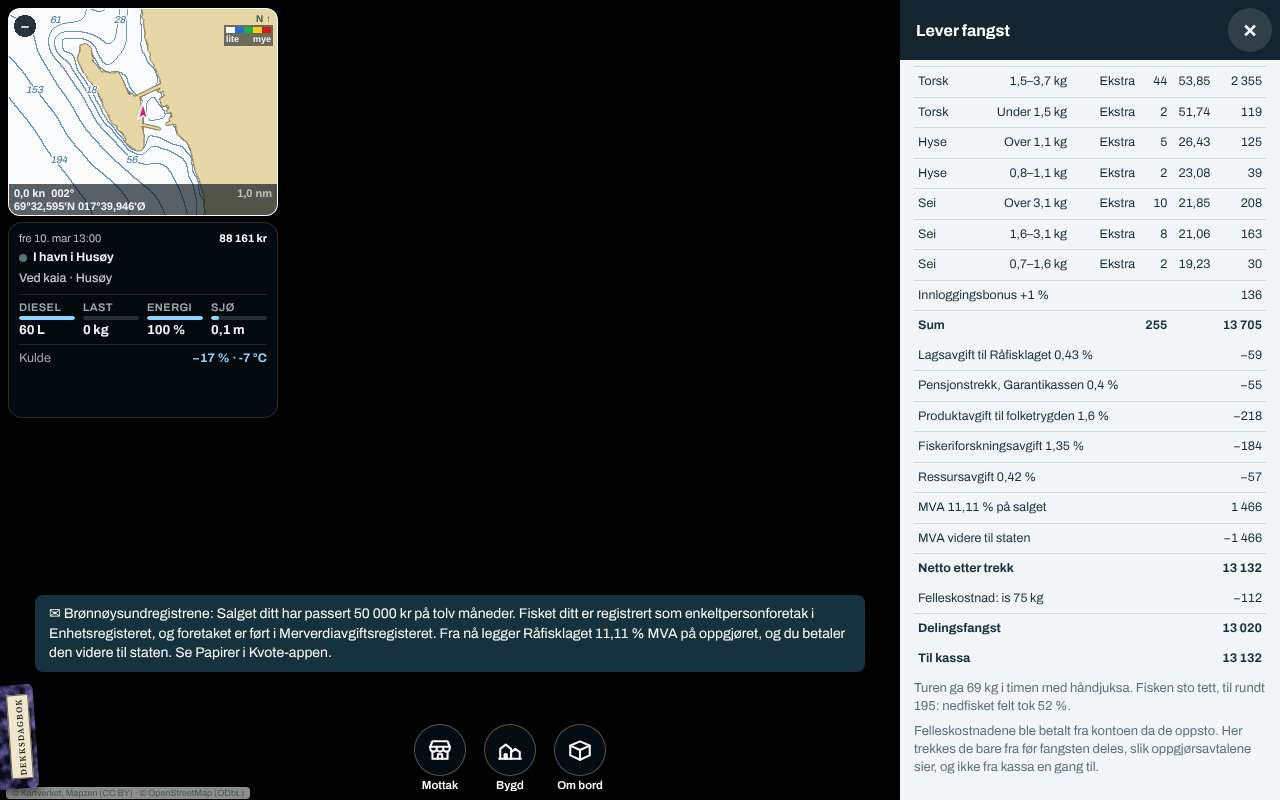
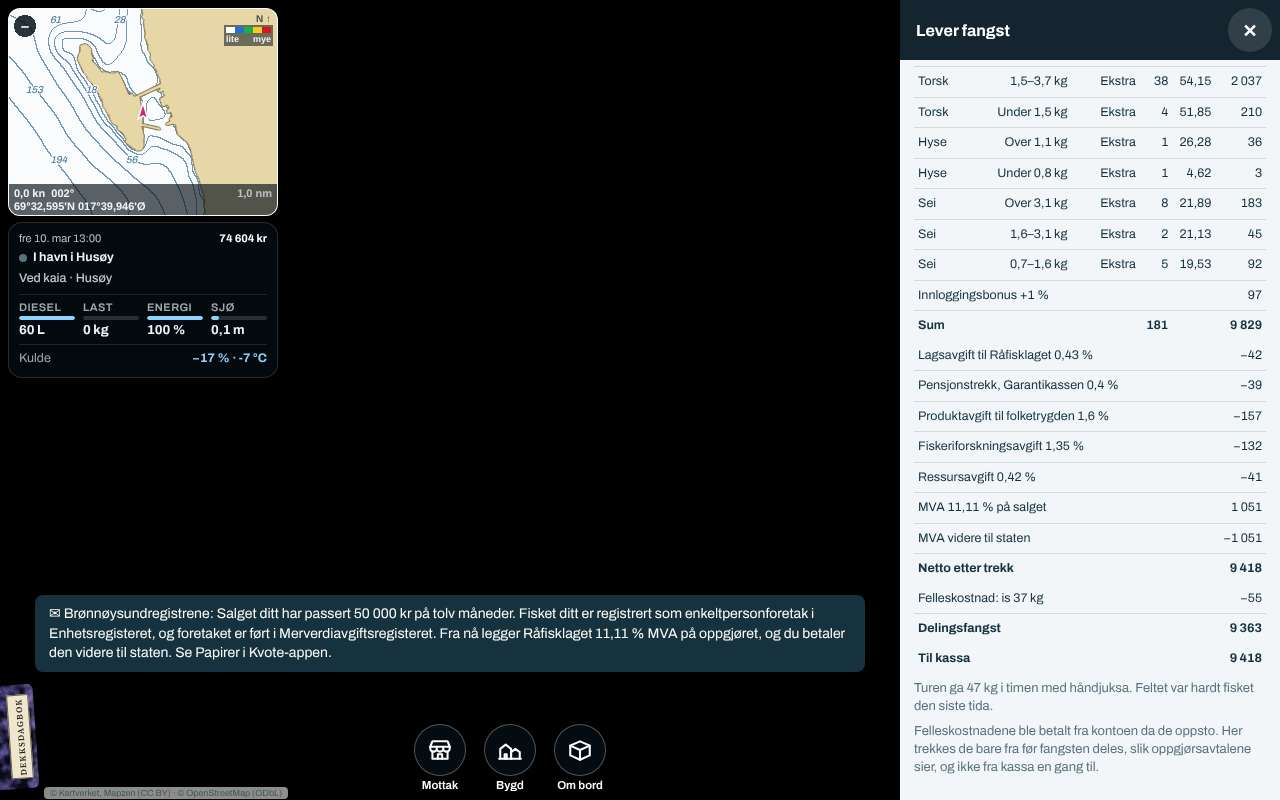
Ø8b S2: turens linje med vanlige ord, kiloene som eneste tall (Jonas 09.11.2026)
Jonas: «Hva menes med at sjøen og vinden tok 68%? Prosent av hva?» og «jeg tenker aldri at man skal nevne hvor mye man potensielt
sett kan få på plassen … men ikke med konkrete tall … fiskere er som regel simple folk, ikke akademikere.» tripWhy sier nå hva turen
ga i timen, og så høyst to av det som tok mest, med vanlige ord og sterkere ord for et større utslag («Det sto godt med fisk, men
vinden og sjøen gjorde det for tungt å fiske skikkelig, og det var kaldt på fingrene.»). «Fisken sto til rundt N» og prosentene er
ute; trekkene er bedre, omtrent som eller dårligere enn vanlig; haillen «hjalp godt». «Godt med fisk» regnes av det som sto igjen
etter nedfiskingen og står aldri sammen med «hardt fisket». Tallene går fortsatt til skyen i slip_why.

Tester: tests/unit/turlinje.test.mjs skrevet om for ordene (sett rød mot ordlyden før: 19 OK, 19 FEIL; grønn etter, 39 OK), med en
sjekk for at ingen tall utover kiloene står i linja; unit 2 483 OK; turlinjetest (også --kyst: Bøvågen, Bodø, Forsøl) og geartest
grønne; booktest og boottest grønne. Skjermbildene tatt på nytt. Patchnotatet skrevet om.

Claude-Session: https://claude.ai/code/session_013BxXiBXgi4RvavDSZh2cjE

diff --git a/src/js/core/04-crew.js b/src/js/core/04-crew.js
@@ -148,8 +148,10 @@ function tripCost(b = S.boat){ const T = tripOf(b), fuelKr = Math.round(T.fuelL 
 // ---- the trip's line on the landing note and in the deck log (Ø8b S2, V2 A and V4 A in docs/planer/spillbarhet-fangst.md, Jonas
 // 06.11.2026): how the trip went and why, from the sums fish() and finishHaul keep in the trip (T.j for the jig, T.g for the hauls).
 // Only what the model reckons is said, and of the steps only those that took or gave at least TRIPL.min of the fish.
-// tight and thin: what the fish stood to against a fair hour for the rig (HEATG.fair.jig), past which the line says the fish stood dense or thin
-const TRIPL = {min:0.1, minM:15, tight:3, thin:0.4};
+// min: the least share of the fish a step must take to be named, strong (strongCold for the cold, which takes at most half) for the
+// stronger words; tight and thin: what the fish stood to against a fair hour for the rig (HEATG.fair.jig), past which the line says
+// there was plenty of fish or little; good and poor: the hauls against usual ones. Starting values
+const TRIPL = {min:0.1, minM:15, strong:0.4, strongCold:0.2, tight:3, thin:0.4, good:1.4, poor:0.6};
 // the sums made into shares: the jig's kilos an hour, what the fish stood to an hour (p0, before the fishing down, the weather, the cold
 // and the wear), a fair hour for the rig (HEATG.fair.jig per hand jig's effort), and each step's share of p0 (they add up to
 // 1 − pJ/p0, the whole loss); the luck as what it gave on top of what was left. The hauls: kilos against fair hauls for the soak
@@ -164,33 +166,55 @@ function tripSum(T){
   if (G && G.n > 0 && G.fair > 0) W.g = {n:G.n, kg:G.kg, fair:G.fair, stock:G.r0 > 0 ? Math.max(0, 1 - G.rL / G.r0) : 0, luck:G.rL > 0 ? G.r / G.rL - 1 : 0, kinds:Object.keys(G.k || {})};
   return W.j || W.g ? W : null;
 }
-// the line itself, [Norwegian, English]: «Turen ga 38 kg i timen med håndjuksa. Fisken sto til rundt 50: sjøen (1,4 m) tok 20 %, kulda 12 %.»
+// the line itself, [Norwegian, English], as a fisherman on the quay would put it (Jonas 09.11.2026: «aldri nevne hvor mye man potensielt
+// sett kan få på plassen», «hvordan vær eller andre forhold påvirket fisket, men ikke med konkrete tall», «fiskere er som regel simple
+// folk»): the kilos an hour are the only number; then at most two of the things that took the most, in plain words, stronger words for
+// a bigger share, and whether the fish stood dense or thin. «Turen ga 36 kg i timen med håndjuksa. Det sto godt med fisk, men sjøen var
+// for grov til å fiske skikkelig, og kulda gjorde fingrene stive.»
 function tripWhy(W){
   if (!W) return null;
-  const nf = (v, d, no) => { const x = (Math.round(v * 10 ** d) / 10 ** d).toFixed(d); return no ? x.replace('.', ',') : x; };
-  const kgS = (v, no) => v >= 1 ? nf(v, 0, no) : 'under 1';
-  const about = (v, no) => v >= 1 ? (no ? 'rundt ' : 'about ') + nf(v >= 20 ? Math.round(v / 5) * 5 : v, 0, no) : (no ? 'under 1' : 'less than 1');   // «rundt 50»: the model's number, not a weighing
-  const pc = v => Math.round(v * 100);
-  // the luck is said with the part it was in: the jig's after the jig's line, the hauls' in theirs (the haill can have been on for one only)
-  const luckS = v => { const x = Math.abs(v - 1) <= 0.05 ? 2 : Math.abs(v - 2) <= 0.05 ? 3 : 0; return x ? [x === 2 ? 'det dobbelte' : 'det tredobbelte', x === 2 ? 'double' : 'triple'] : [pc(v) + ' % mer', pc(v) + ' % more']; };
+  const kgS = (v, no) => v >= 1 ? String(Math.round(v)) : (no ? 'under 1' : 'less than 1');
+  const cap = s => s.charAt(0).toUpperCase() + s.slice(1);
   const no = [], en = [];
+  // [share, Norwegian, English]: the words for each step, mild (from TRIPL.min) or strong (from TRIPL.strong)
+  const SAY = {
+    sea:(v, j) => { const wind = j.w > 8.5, hard = v >= TRIPL.strong;
+      return hard ? (wind ? ['vinden og sjøen gjorde det for tungt å fiske skikkelig', 'the wind and the sea made it too hard to fish properly'] : ['sjøen var for grov til å fiske skikkelig', 'the sea was too rough to fish properly'])
+        : (wind ? ['det blåste en del', 'it blew a fair bit'] : ['det var litt mye sjø', 'there was a bit too much sea']); },
+    cold:v => v >= TRIPL.strongCold ? ['kulda gjorde fingrene stive', 'the cold made the fingers stiff'] : ['det var kaldt på fingrene', 'it was cold on the fingers'],
+    stock:v => v >= TRIPL.strong ? ['feltet var hardt fisket den siste tida', 'the ground had been fished hard lately'] : ['feltet var litt nedfisket', 'the ground was a little fished down'],
+    pilk:() => ['pilken og krokene var slitt', 'the pilk and hooks were worn']};
+  let luck = false;
   if (W.j){ const j = W.j, rigNo = j.kv ? 'kveiteutstyr' : j.mk > 0 ? (j.mk > 1 ? 'juksamaskiner' : 'juksamaskin') : 'håndjuksa', rigEn = j.kv ? 'halibut gear' : j.mk > 0 ? (j.mk > 1 ? 'jigging machines' : 'a jigging machine') : 'a hand jig';
     no.push('Turen ga ' + kgS(j.kgph, true) + ' kg i timen med ' + rigNo + '.'); en.push('The trip gave ' + kgS(j.kgph, false) + ' kg an hour with ' + rigEn + '.');
-    const wind = j.w > 8.5, F = [['sea', (wind ? 'sjøen og vinden (' : 'sjøen (') + nf(j.hs, 1, true) + ' m' + (wind ? ', ' + nf(j.w, 0, true) + ' m/s' : '') + ')', (wind ? 'the sea and the wind (' : 'the sea (') + nf(j.hs, 1, false) + ' m' + (wind ? ', ' + nf(j.w, 0, false) + ' m/s' : '') + ')'],
-      ['cold', 'kulda', 'the cold'], ['stock', 'nedfisket felt', 'fished-down grounds'], ['pilk', 'slitt pilk og kroker', 'worn pilk and hooks']]
-      .map(([k, a, b]) => [j.sh[k], a, b]).filter(x => x[0] >= TRIPL.min).sort((a, b) => b[0] - a[0]);
-    const tight = j.fair > 0 && j.pot >= TRIPL.tight * j.fair, thin = j.fair > 0 && j.pot <= TRIPL.thin * j.fair;
-    const s0no = 'Fisken sto ' + (tight ? 'tett, til ' : thin ? 'tynt, til ' : 'til ') + about(j.pot, true), s0en = 'The fish stood ' + (tight ? 'dense, for ' : thin ? 'thin, for ' : 'for ') + about(j.pot, false);
-    if (F.length){ no.push(s0no + ': ' + F.map((x, i) => x[1] + (i ? ' ' : ' tok ') + pc(x[0]) + ' %').join(', ') + '.'); en.push(s0en + ': ' + F.map((x, i) => x[2] + (i ? ' ' : ' took ') + pc(x[0]) + ' %').join(', ') + '.'); }
-    else { no.push(s0no + '.'); en.push(s0en + '.'); }
-    if (j.luck >= TRIPL.min){ const L = luckS(j.luck); no.push('Haillen ga ' + L[0] + '.'); en.push('The luck gave ' + L[1] + '.'); }
+    // plenty or little: what stood there after the fishing down; a line that says the ground was fished never says «plenty of fish» too
+    const left = j.pot * (1 - (j.sh.stock || 0)), thin = j.fair > 0 && left <= TRIPL.thin * j.fair;
+    const K = ['sea', 'cold', 'stock', 'pilk'].map(k => [j.sh[k], k]).filter(x => x[0] >= TRIPL.min).sort((a, b) => b[0] - a[0]).slice(0, thin ? 1 : 2);
+    const tight = j.fair > 0 && left >= TRIPL.tight * j.fair && !K.some(x => x[1] === 'stock'), F = K.map(([v, k]) => SAY[k](v, j));
+    const and = (L, i) => L.map(x => x[i]).join(i ? ', and ' : ', og ');
+    if (tight && F.length){ no.push('Det sto godt med fisk, men ' + and(F, 0) + '.'); en.push('There was plenty of fish, but ' + and(F, 1) + '.'); }
+    else if (thin && F.length){ no.push('Det var lite fisk å finne, og ' + F[0][0] + '.'); en.push('There was little fish to find, and ' + F[0][1] + '.'); }
+    else if (tight){ no.push('Det sto godt med fisk.'); en.push('There was plenty of fish.'); }
+    else if (thin){ no.push('Det var lite fisk å finne.'); en.push('There was little fish to find.'); }
+    else if (F.length){ no.push(cap(and(F, 0)) + '.'); en.push(cap(and(F, 1)) + '.'); }
+    else if (j.sh.sea < 0.05 && j.sh.cold < 0.05){ no.push('Fint vær og jevnt fiske.'); en.push('Fine weather and steady fishing.'); }
+    else { no.push('Jevnt fiske.'); en.push('Steady fishing.'); }
+    if (j.luck >= TRIPL.min) luck = true;
   }
-  if (W.g){ const g = W.g, one = g.n === 1, L = g.luck >= TRIPL.min ? luckS(g.luck) : null;
-    no.push((one ? 'Trekket' : 'De ' + g.n + ' trekkene') + ' ga ' + nf(g.kg, 0, true) + ' kg, mot ' + about(g.fair, true) + ' i ' + (one ? 'et vanlig trekk' : 'vanlige trekk') + ' med samme ståtid' + (g.stock >= TRIPL.min ? '; nedfisket felt tok ' + pc(g.stock) + ' %' : '') + (L ? '; haillen ga ' + L[0] : '') + '.');
-    en.push((one ? 'The haul' : 'The ' + g.n + ' hauls') + ' gave ' + nf(g.kg, 0, false) + ' kg, against ' + about(g.fair, false) + ' in ' + (one ? 'an ordinary haul' : 'ordinary hauls') + ' with the same soak' + (g.stock >= TRIPL.min ? '; fished-down grounds took ' + pc(g.stock) + ' %' : '') + (L ? '; the luck gave ' + L[1] : '') + '.');
+  // the hauls against usual ones for the soak (HEATG.fair, as the catch mark's colour): better, about the same or poor, and why when the
+  // ground was fished hard
+  if (W.g){ const g = W.g, q = g.kg / g.fair, k = g.kinds.length === 1 ? g.kinds[0] : null;
+    const who = {garn:['Garna', 'The nets'], line:['Lina', 'The line'], teine:['Teinene', 'The pots']}[k] || ['Redskapet', 'The gear'];
+    if (q >= TRIPL.good){ no.push(who[0] + ' fisket bedre enn vanlig.'); en.push(who[1] + ' fished better than usual.'); }
+    else if (q <= TRIPL.poor){ const hard = g.stock >= TRIPL.strong;
+      no.push(who[0] + ' ga lite denne gangen' + (hard ? ': feltet var hardt fisket.' : '.')); en.push(who[1] + ' gave little this time' + (hard ? ': the ground had been fished hard.' : '.')); }
+    else { no.push(who[0] + ' fisket omtrent som vanlig.'); en.push(who[1] + ' fished about as usual.'); }
+    if (g.luck >= TRIPL.min) luck = true;
   }
+  if (luck){ no.push('Haillen hjalp godt.'); en.push('The luck helped a good deal.'); }
   return [no.join(' '), en.join(' ')];
 }
+
 // ---- the trip's limits on an ocean vessel (H2b of docs/planer/havsteget-h2-autoline.md, 05.11.2026). The fuel, the bait, the hooks for
 // the hook change (10b-gearcare.js autoFixHour) and the room in the hold each last so many days at the trip's pace so far (until half a
 // day at sea has gone, and for the hold until a tonne is in, the vessel's own: her generators and a day of gear work, 5.5 t of product a

diff --git a/src/js/ui/phone/07-patch.js b/src/js/ui/phone/07-patch.js
@@ -1,7 +1,7 @@
   // --- the patch notes: what the latest updates brought, newest first; a new id at the top shows a badge until the app is opened
   const PATCH = [
-    ['o8b-s2-081126', '08.11.2026', 'Turens linje på sluttseddelen', 'The trip\'s line on the landing note', [
-       ['Sluttseddelen sier hvordan turen gikk og hvorfor: hvor mange kilo i timen den ga, hva fisken sto til der du fisket, og hva sjøen og vinden, kulda, slitt pilk og et nedfisket felt tok av det. Trekkene med garn, line og teiner måles mot vanlige trekk med samme ståtid. Den samme linja står i dekksdagboka.', 'The landing note says how the trip went and why: how many kilos an hour it gave, what the fish stood for where you fished, and what the sea and the wind, the cold, worn pilk and fished-down grounds took of it. Hauls of nets, line and pots are measured against ordinary hauls with the same soak. The same line stands in the deck log.']]],
+    ['o8b-s2-081126', '09.11.2026', 'Turens linje på sluttseddelen', 'The trip\'s line on the landing note', [
+       ['Sluttseddelen sier hvor mange kilo i timen turen ga, og med noen få ord hva som gjorde den god eller dårlig: sjøen og vinden, kulda, et hardt fisket felt eller slitt pilk. Etter garn, line og teiner står det om de fisket bedre eller dårligere enn vanlig. Den samme linja står i dekksdagboka.', 'The landing note says how many kilos an hour the trip gave, and in a few words what made it good or poor: the sea and the wind, the cold, a ground fished hard or worn pilk. After nets, line and pots it says whether they fished better or worse than usual. The same line stands in the deck log.']]],
     ['p157', '08.11.2026', 'Fisken på fiskeplassene', 'The fish on the fishing grounds', [
        ['Fisken står oftere på fiskeplassene langs hele kysten i de månedene fiskerne har fisket der (Fiskeridirektoratets kart), men ikke hver dag: de gode flekkene kommer og går på feltet som ellers i sjøen.', 'The fish stand more often on the fishing grounds along the whole coast in the months the fishermen have fished there (the Directorate of Fisheries\' map), but not every day: the good spots come and go on the ground as elsewhere in the sea.'],
        ['Senjas seks felt har ikke lenger en egen sirkel med ekstra fisk. Fiskeplassene på Senja følger samme regel som resten av kysten.', 'Senja\'s six grounds no longer have a circle of extra fish of their own. The fishing grounds on Senja follow the same rule as the rest of the coast.']]],

diff --git a/tests/turlinjetest.py b/tests/turlinjetest.py
@@ -6,7 +6,7 @@ the luck on, and where the stock is fished down, and lands each trip. `--kyst` (
 tools/map/game.py) does a calm trip near Bergen, Bodø and Hammerfest, the stikkprøve along the coast. `--shots` takes the landing note in
 both formats into tests/out/ (_env.py works there). Prints OK/FEIL lines."""
 from _env import GAME, boot
-import asyncio, json, sys, os
+import asyncio, json, sys, os, re
 from playwright.async_api import async_playwright
 
 def check(ok, what, extra=''):
@@ -40,7 +40,7 @@ async def main():
         calm = json.loads(await run(None, 4, 4, 0.4, False, 1))
         print('stille', calm['pt'], calm['kg'], 'kg:', calm['why'][0] if calm['why'] else None)
         j = (calm['W'] or {}).get('j') or {}
-        check(bool(calm['why']) and calm['why'][0].startswith('Turen ga ') and 'Fisken sto' in calm['why'][0], 'en vanlig tur med håndjuksa gir turens linje', calm['why'])
+        check(bool(calm['why']) and calm['why'][0].startswith('Turen ga ') and not re.search(r'\d|%', re.sub(r'^Turen ga [^.]*\.', '', calm['why'][0])), 'en vanlig tur med håndjuksa gir turens linje, med kiloene som eneste tall (Jonas 09.11.2026)', calm['why'])
         check(calm['slip'] == (calm['why'] or [None])[0], 'linja står på sluttseddelen (portSlip, .tripwhy)', calm['slip'])
         check(calm['inLog'], 'og den samme linja står i dekksdagboka (Drift) etter «Leverte …»', calm['logs'])
         check(calm['trip'] is None, 'turen er null etter salget, så neste tur teller fra null')
@@ -51,14 +51,14 @@ async def main():
         check(j and 0.6 * exp <= j['kgph'] <= 1.4 * exp, 'det som kom om bord, er innen 40 % av det modellen ventet (potensialet ganger trinnene; resten er tilfeldig)', {'kgph': round(j.get('kgph', 0), 1), 'ventet': round(exp or 0, 1)})
         rough = json.loads(await run(None, 4, 13, 2.2, False, 1)); jr = (rough['W'] or {}).get('j') or {}
         print('grov sjø:', rough['why'][0] if rough['why'] else None, rough['mins'], rough['st'], rough['fishLog'])
-        check(jr and jr['sh']['sea'] >= 0.1 and 'sjøen og vinden (2,2 m, 13 m/s) tok' in (rough['why'] or [''])[0], 'i grov sjø og kuling sier linja hva sjøen og vinden tok', rough['why'])
+        check(jr and jr['sh']['sea'] >= 0.1 and 'vinden og sjøen gjorde det for tungt å fiske skikkelig' in (rough['why'] or [''])[0], 'i grov sjø og kuling sier linja at vinden og sjøen gjorde det for tungt', rough['why'])
         check(jr and jr['kgph'] < j['kgph'], 'og turen ga mindre enn i stille vær', {'grov': round(jr.get('kgph', 0), 1), 'stille': round(j['kgph'], 1)})
         luck = json.loads(await run(None, 4, 4, 0.4, True, 1)); jl = (luck['W'] or {}).get('j') or {}
         print('haill:', luck['why'][0] if luck['why'] else None)
-        check(jl and jl['luck'] > 0.9 and 'Haillen ga' in (luck['why'] or [''])[0], 'med luksushaillen sier linja hva haillen ga', {'luck': jl.get('luck'), 'why': luck['why']})
+        check(jl and jl['luck'] > 0.9 and 'Haillen hjalp godt' in (luck['why'] or [''])[0], 'med luksushaillen sier linja at haillen hjalp', {'luck': jl.get('luck'), 'why': luck['why']})
         down = json.loads(await run(None, 4, 4, 0.4, False, 0.5)); jd = (down['W'] or {}).get('j') or {}
         print('nedfisket:', down['why'][0] if down['why'] else None)
-        check(jd and 0.4 <= jd['sh']['stock'] <= 0.6 and 'nedfisket felt tok' in (down['why'] or [''])[0], 'der bestanden er fisket ned til halvparten, tar nedfisket felt rundt 50 %', {'stock': jd.get('sh', {}).get('stock'), 'why': down['why']})
+        check(jd and 0.4 <= jd['sh']['stock'] <= 0.6 and 'feltet var hardt fisket' in (down['why'] or [''])[0].lower(), 'der bestanden er fisket ned til halvparten, tar det rundt 50 %, og linja sier at feltet var hardt fisket', {'stock': jd.get('sh', {}).get('stock'), 'why': down['why']})
         check(jd and abs(jd['pot'] - j['pot']) <= 0.25 * j['pot'], 'det fisken sto til, er det samme som på urørt felt (bestanden er et trinn, ikke potensialet)', {'ned': round(jd.get('pot', 0), 1), 'urørt': round(j['pot'], 1)})
         en = await pg.evaluate("(() => { S.lang = 'en'; const b = document.createElement('div'); b.innerHTML = portSlip(); const el = b.querySelector('.tripwhy'); S.lang = 'no'; return el ? el.textContent : null; })()")
         check(bool(en) and en == down['why'][1] and en.startswith('The trip gave '), 'på engelsk står den engelske linja', en)

diff --git a/tests/geartest.py b/tests/geartest.py
@@ -131,8 +131,8 @@ async def main():
         mk = r.get('marks') or []
         print(ok(len(mk) == 2 and mk[0]['g'] == 'line' and mk[1]['g'] == 'teine' and -0.05 < mk[1]['kgu'] - r['crab']['kg'] / 40 < 0.6 and mk[0]['kgu'] >= mk[1]['kgu'] and all(m['q'] is not None for m in mk)),
               'the catch mark gives kilos per line (the whole line) and per pot', mk, r['crab']['kg'])
-        # the trip's line (Ø8b S2): the three hauls (nets, line, pots; after the jig's line, as the trip jigged too) against fair hauls for their soak, on the note and in the deck log
-        print(ok(bool(r['sale']['why']) and 'De 3 trekkene ga ' in r['sale']['why'][0] and 'vanlige trekk med samme ståtid' in r['sale']['why'][0]), 'the landing note says what the three hauls gave against fair hauls for the soak (Ø8b S2)', r['sale']['why'])
+        # the trip's line (Ø8b S2): the three hauls (nets, line and pots: «Redskapet», after the jig's line, as the trip jigged too) against fair hauls for their soak, on the note and in the deck log
+        print(ok(bool(r['sale']['why']) and any(w in r['sale']['why'][0] for w in ('Redskapet fisket bedre enn vanlig', 'Redskapet fisket omtrent som vanlig', 'Redskapet ga lite denne gangen'))), 'the landing note says how the three hauls fished against usual ones for the soak, in words (Ø8b S2)', r['sale']['why'])
         print(ok(r['crabPend'] == 0 and not r['sale']['fine'] and abs(r['sale']['dead'] - 1.2) < 0.02 and r['sale']['minOk'] and r['sale']['ffAdd'] <= r['nonCrab'] + 0.01 and 'Fiskeridirektoratet' not in r['sale']['msgs'] and 'teine' in r['sale']['gear']), 'live king crab is paid at least the minimum price of its class and dead crab nothing; no fine, and crab is outside the fresh-fish scheme')
 
         # 5. weather, deadlines, wear and mending, baiting

diff --git a/docs/planer/spillbarhet-fangst.md b/docs/planer/spillbarhet-fangst.md
@@ -135,3 +135,4 @@ S0, S2 og S3 venter på at H3b er rullet ut (`03-simulation.js`, `04-crew.js`, `
 - 07.11.2026: **S1 bygd** (Jonas' økt, gren `ccr-dc24762d-iyuakj`, 4310a20f). Når første tur er ferdig (`tutFinish` i `ui/07b-first-trip.js`), skrives «Første tur var ekstra god. Vanlig fiske med håndjuksa gir her nå rundt N kg i timen.» i dekksdagboka (Drift), med samme N som sluttseddelen (`tutNormKg`, samme formel som `portSlip`; «under 10 kg» under 10), tekstene på norsk og engelsk i `ui/01-i18n.js` (`tut_norm`, `tut_norm_kg`, `tut_norm_lo`). Ingen linje når `S.tut.fk` mangler (en lagring fra før O4) eller ingenting er levert. Prøvd: N likt på seddelen og i dagboka for fem andeler av bestanden (rundt 140, 40 og 10 kg, og under 10 kg to ganger) og ved mottakene nær Bergen, Bodø og Hammerfest; `booktest` 25 OK, `tut` i liggende 14 OK (dagboka og sluttseddelen sa begge «rundt 40 kg i timen» etter 302 kg levert i Botnhamn), `starttest` og `tutdrift`. **Måling, datoen for endringen: 07.11.2026.** Trakten før (samme utregning som `admin_funnel`, spillere som deler bruksstatistikk, startuke): uka fra 05.10 7 startet, 2 første levering, 2 tredje; 12.10 5, 2, 2; 26.10 4, 1, 0; 02.11 5, 1, 1 (ingen nye i uka fra 19.10). Til sammen siste åtte uker 21 startet, 6 første levering, 5 tredje. Det er for få spillere til å si om linja virker; sammenlign første → tredje levering for spillere som startet fra 07.11.2026 med tallene over når det er minst like mange. Rullet ut i 91cc422a. Patchnotatet er ikke lagt inn (bare de to filene, Jonas 07.11.2026); teksten står i køen, i startmeldingen for S0.
 - 08.11.2026: **S0 bygd og rullet ut i ffd076c1** (Jonas' økt, gren `ccr-e9f46ad4-wipgu7`). `TUT_HOLD` 1: påfyllingen fyller til fullt lasterom innen fisketida er ute, bare mens båten fisker. **Trebåten har ikke lasterom, men ett fiskekar på 500 kg på dekk**, så full last er 500 kg, ikke 350 som V3 regnet med; teksten i steget sier «fiskekaret» eller «lasterommet» etter båten (Jonas 08.11.2026: «Husk at ikke alle båter har lasterom. Noen fyller jo fisken i kar på dekk.»). Påfyllingen per minutt er regnet om (minuttets del av det som sto igjen før minuttets egen fangst, ett minutt tidlig), så lasten blir full også når bløggekaret fylles det siste minuttet. «Stopp» virket alt i første tur; `full` er ferdig når fisket er over, og teksten i steget sier at spilleren kan levere før. Tida på feltet: rundt 150 spillminutter mot 112 med halv last, som V3 anslo; etter «Rund fisk på første tur» (samme dag) rundt 90 mot 80. **N i dekksdagboka** (S1) tar nå påfyllingen ut og deler på minuttene fisket: med full last er påfyllingen rundt to tredeler av fangsten, og N ville ellers sagt rundt 120 der den nå sier 50 ved Gisundet. Sluttseddelen (`portSlip`, `ui/07-guide.js`) kaller `tutNormKg(ls)` (Jonas' valg A 08.11.2026, etter at Ø12 C var ute), så seddelen og dagboka sier samme N. Antatt, som merket over: én spilltime, påfyllingen bare under fiske, `full` ferdig når spilleren stopper. Prøvd: `tests/tutfull.py` (ny, sett rød mot bygget før S0), med stikkprøvene ved Bergen (Bøvågen), Bodø og Hammerfest (Forsøl), heattests første-tur-del, `booktest`, `starttest`, `tutdrift` og `tut` i liggende; skjermbildene i `docs/okter/2026-11-08-o8b-s0/`. **Måling, datoen for endringen: 08.11.2026.** Sammenlign første → tredje levering for spillere som startet fra 08.11.2026 med tallene under S1 (07.11.2026), når det er minst like mange; S1 og S0 kom med en dags mellomrom, så de to kan ikke skilles i trakten.
 - 08.11.2026: **S2 bygd** (Jonas' økt, gren `claude/o8b-s2-turens-linje-c70okw`). `fish()` summerer per tur det fisken sto til (30·Σ`density`·innsats, med `biteF`, `targetF` og juksas andel, uten bestandens nedtrekk) og hva hvert trinn tok i rekkefølge: nedfisket felt (`S.stock`), sjøen og vinden (`wpen`), kulda (`coldPen`), slitt pilk (`jigQ`, lagt til fordi modellen har det og det forklarer en dårlig tur), og hva haillen ga (`luck`); `finishHaul` legger trekkene mot `HEATG.fair` for ståtida, med haillen og nedfiskingen mens lenka sto. `tripSum` og `tripWhy` (`core/04-crew.js`) gjør det til én linje på norsk og engelsk, bare trinn på minst 10 %; den står på sluttseddelen under tabellen og i Drift-loggen etter «Leverte …», og `slip_why {kgph, fair, pen, gq}` går til skyen. Ikke på første tur (den har sin egen linje) og ikke i statusboksen (V4 B). Antatt: «tett» ved 3 × et vanlig trekk og «tynt» ved 0,4 ×; planens «kulda 5 %» i eksempelet er lest som et eksempel, og regelen om 10 % gjelder. Prøvd: `tests/unit/turlinje.test.mjs` (sett rød før), `tests/turlinjetest.py` (stille, grov sjø, haill, nedfisket felt, engelsk, og stikkprøvene ved Bergen/Bøvågen, Bodø og Hammerfest/Forsøl), `geartest` (tre trekk), og skjermbildene i `docs/okter/2026-11-08-o8b-s2/`. **Måling, datoen for endringen: 08.11.2026.** Sammenlign leveringene per spiller etter tur 2 for spillere som startet fra 08.11.2026 med tallene under S1, når det er minst like mange; S0, S1 og S2 kom tett og kan ikke skilles.
+- 09.11.2026: **S2s ordlyd skrevet om** etter Jonas: «Hva menes med at sjøen og vinden tok 68%? Prosent av hva?», og så «jeg tenker aldri at man skal nevne hvor mye man potensielt sett kan få på plassen, fordi det rett og slett ikke er realistisk i det ekte liv. … Det kan gjerne stå noe om hvordan vær eller andre forhold påvirket fisket, men ikke med konkrete tall … fiskere er som regel simple folk, ikke akademikere.» Linja har nå kiloene i timen som eneste tall og høyst to ting med vanlige ord («Turen ga 26 kg i timen med håndjuksa. Det sto godt med fisk, men vinden og sjøen gjorde det for tungt å fiske skikkelig, og det var kaldt på fingrene.»); ordene og tersklene i 5.3f i `docs/systemer/fiskerimodellen.md`. «Fisken sto til rundt N» og prosentene er tatt ut. Linja om første tur (S1/S0, «gir fisket her nå vanligvis rundt N kg i timen») er et anslag av samme slag og står til Jonas har sagt noe om den.

diff --git a/docs/systemer/fiskerimodellen.md b/docs/systemer/fiskerimodellen.md
@@ -397,9 +397,9 @@ Planen står i `docs/planer/spillbarhet-fangst.md`. Jonas valgte 06.11.2026:
   - **Juksa** (`fish()`): hvert fiskeminutt legger i `T.j` (`tripJ`) minuttet, det fisken sto til (p0 = 30·Σ `density`·innsats·`targetF`·juksas andel·`biteF`, med bestandens nedtrekk tatt ut, se under) og trinnene i fast rekkefølge: nedfisket felt (pS), sjøen og vinden (`wpen`, pW), kulda (`coldPen`, pC), slitt pilk og kroker (`jigQ`, pJ), og haillen (`luck`, pL). Tida på døgnet og stimen (`biteF`) og kveiteutstyret (`targetF`) er med i det fisken sto til, ikke egne trinn: de er hvordan fisken biter der og da. Tilfeldigheten (`0.5 + Math.random()`) og fisken som slippes under minstemålet er ikke trinn; det leverte kan derfor avvike litt fra det modellen ventet (innen 2 % i `turlinjetest` over fire timer). Kiloene telles i `addCatch` (det `fish()` tar, og egne napp i juksespillet i et minutt `fish()` telte), påfyllingen i første tur trekkes fra, og første tur får ingen turlinje (den har `tutNormKg`).
   - **Bestandens nedtrekk** er `S.stock` der båten står (`stockDev` i `05-vessels.js`: det spillerne har fisket ned, også de andre spillernes uttak fra `wshTake`), ikke flåtens grunnlinje (`baseAt`), som er havet slik det er. `density()` har det alt i seg; p0 deler det ut igjen av bestandens egen del (ikke første turs flekk). Arter med eget lag (blåkveite, snøkrabbe) og skalldyr bruker sitt lag. `stockDev` gjentar den delen av `stockAt` (`03-simulation.js`) som leser `S.stock`; endres `stockAt`, må den følge med.
   - **Trekkene** (`finishHaul`, `core/10-gear.js`): `soakHour` holder per lenke `s.fx` = [det timen ga, uten haillen, uten haillen og nedfiskingen], og trekket legges i `T.g` med kiloene og et vanlig trekk for redskapet og ståtida (`HEATG.fair` × `heatSoakShare` × enhetene, samme mål som fangstmerkets farge). Snøkrabbelenkene er havfartøyets og er ikke med. Haillen sies med den delen den virket i.
-  - **Linja** (`tripSum`, `tripWhy` i `core/04-crew.js`, `TRIPL`): trinnenes andeler er andeler av p0 og summerer til hele tapet (1 − pJ/p0); haillen er det den ga oppå det som var igjen. Bare trinn på minst 10 % nevnes, størst først; ingen linje under et kvarter med jukse. «Tett» når det fisken sto til er minst 3 × et vanlig trekk for riggen (`HEATG.fair.jig` per håndjukses innsats), «tynt» under 0,4 ×; tallet rundes til nærmeste 5 over 20 («rundt 50»). Vinden nevnes når den i snitt var over 8,5 m/s (`wpen` tar fra 8). Eksempel fra testen: «Turen ga 36 kg i timen med håndjuksa. Fisken sto tett, til rundt 195: sjøen og vinden (2,2 m, 13 m/s) tok 68 %, kulda 11 %.»
+  - **Linja** (`tripSum`, `tripWhy` i `core/04-crew.js`, `TRIPL`), slik en fisker ville sagt det på kaia (Jonas 09.11.2026: «jeg tenker aldri at man skal nevne hvor mye man potensielt sett kan få på plassen, fordi det rett og slett ikke er realistisk i det ekte liv», «Det kan gjerne stå noe om hvordan vær eller andre forhold påvirket fisket, men ikke med konkrete tall», «fiskere er som regel simple folk, ikke akademikere»): kiloene i timen er det eneste tallet. Så høyst to av trinnene som tok mest (minst 10 % av det fisken sto til), med sterkere ord fra 40 % (kulda fra 20 %, den tar høyst halvparten): sjøen «det var litt mye sjø» / «sjøen var for grov til å fiske skikkelig», med vind over 8,5 m/s «det blåste en del» / «vinden og sjøen gjorde det for tungt å fiske skikkelig»; kulda «det var kaldt på fingrene» / «kulda gjorde fingrene stive»; bestanden «feltet var litt nedfisket» / «feltet var hardt fisket den siste tida»; pilken «pilken og krokene var slitt». «Det sto godt med fisk» når det som sto der etter nedfiskingen var minst 3 × et vanlig trekk for riggen (`HEATG.fair.jig` per håndjukses innsats), men aldri sammen med «hardt fisket»; «Det var lite fisk å finne» under 0,4 ×. Uten noe over 10 %: «Fint vær og jevnt fiske.» eller «Jevnt fiske.» Haillen: «Haillen hjalp godt.», én gang. Trekkene: «Garna/Lina/Teinene/Redskapet fisket bedre enn vanlig» (minst 1,4 × vanlige trekk for ståtida), «… ga lite denne gangen» (høyst 0,6 ×, med «: feltet var hardt fisket.» når bestanden tok minst 40 %), ellers «… fisket omtrent som vanlig». Eksempel fra testen: «Turen ga 26 kg i timen med håndjuksa. Det sto godt med fisk, men vinden og sjøen gjorde det for tungt å fiske skikkelig, og det var kaldt på fingrene.» Tallene (andelene, det fisken sto til) går bare til skyen i `slip_why`. Den første ordlyden (08.11.2026) hadde «Fisken sto til rundt 195: sjøen og vinden tok 68 %», som Jonas ikke forsto («Prosent av hva?»).
   - **Hvor:** `sell()` (`ui/08-actions.js`) lager linja før turen nullstilles, skriver den i Drift-loggen rett etter «Leverte …», legger den på `S.lastSale.why` ([norsk, engelsk]) og sender `slip_why {kgph, fair, pen, gq}` til skyen (ingenting om hvem, ikke haillen). `portSlip` (`ui/07-guide.js`) viser den under tabellen som `.tripwhy`. Ikke i statusboksen under fisket (V4 B).
-  - **Antatt:** planens eksempel nevnte «kulda 5 %» ved siden av regelen om 10 %; regelen er fulgt. Tersklene for «tett» og «tynt» er startverdier.
+  - **Antatt:** tersklene (10 % for å nevnes, 40 % og 20 % for de sterke ordene, 3 × og 0,4 × for godt og lite med fisk, 1,4 × og 0,6 × for trekkene) og ordene er startverdier.
 - **V5 A:** ingen egen regel for fiske i havnebassenget i kuling før tettheten i ti basseng er målt mot feltet utenfor. Ikke bygd.
 
 ## 5.33 Fiskeguiden (Jonas 08.10.2026)

diff --git a/docs/BACKLOG.md b/docs/BACKLOG.md
@@ -4,7 +4,7 @@
 
 ## Spillarbeid som venter (26.10.2026)
 
-- **Ø8b S2 (turens linje på sluttseddelen og i Drift-loggen, V2 A og V4 A) bygd 08.11.2026** (Jonas' økt, grenen `claude/o8b-s2-turens-linje-c70okw`; `docs/systemer/fiskerimodellen.md` 5.3f): «Turen ga 36 kg i timen med håndjuksa. Fisken sto tett, til rundt 195: sjøen og vinden (2,2 m, 13 m/s) tok 68 %, kulda 11 %.» Trekkene mot vanlige trekk med samme ståtid. Antatt: tersklene «tett» (3 × vanlig) og «tynt» (0,4 ×), at planens «kulda 5 %» var et eksempel og regelen om 10 % gjelder, og at haillen sies med den delen den virket i. Måles: `slip_why` i skyen og leveringene per spiller etter tur 2 (10.5).
+- **Ø8b S2 (turens linje på sluttseddelen og i Drift-loggen, V2 A og V4 A) bygd 08.11.2026** (Jonas' økt, grenen `claude/o8b-s2-turens-linje-c70okw`; `docs/systemer/fiskerimodellen.md` 5.3f): «Turen ga 26 kg i timen med håndjuksa. Det sto godt med fisk, men vinden og sjøen gjorde det for tungt å fiske skikkelig, og det var kaldt på fingrene.» Kiloene er det eneste tallet (Jonas 09.11.2026: aldri hva plassen «kunne gitt», ingen prosenter). Antatt: ordene og tersklene (5.3f). **Spørsmål til Jonas:** linja om første tur («gir fisket her nå vanligvis rundt N kg i timen», S1/S0) er et anslag av samme slag som han nå sa nei til; står til han har sagt noe. Måles: `slip_why` i skyen og leveringene per spiller etter tur 2 (10.5).
   - **Testene for porten** (`tools/plan/tester.py --run`, 48 tester, hele kysten fra `kart-31`): 40 grønne. Røde og ikke S2s: `fabrikktest` (stående status, rød 7 av 7 på andre grener, 536), `worktest` (søvnskjermen, 375), `fartstidtest` (telefonens hjem, rød siden 07.11 på Ø11.6, Ø11.7 og KM1), `havtur` (Båtsfjord-søvnen, ustabil, 68). `turtest` fikk sidefeilen «mask block 90,31 is not loaded» én gang mens `dist/` ble bygd på nytt midt i kjøringen; grønn etterpå. `turlinjetest` og `geartest` var røde på testene selv (en tur før lot `b.deckStop` stå; sjekken krevde at trekkene sto først), rettet. Etter flettingen med Ø14 F2, KM2 og U2-8 (ddce6ea): `unit` 2 473, `boottest`, `turlinjetest` (med `--kyst`), `turtest`, `booktest`, `tutfull`, `trip2` grønne; `docktest` «et trykk på det grå Ta opp i vifta» rød likt på arbeidsgrenens bygg (`dist-base`, ikke S2s); `geartest` sin driftsplan med garn («the net station is hauled and set again every day», «one hand») var rød én gang samtidig med `docktest` og grønn alene og på arbeidsgrenens bygg: ustabil.
 - **UI 2, U2-8 (nettbrett og PC arver) bygd 08.11.2026** (Jonas' økt, grenen `ccr-510fd7d5-2eum2h`; `docs/systemer/ui-og-telefon.md`, «UI 2, U2-8»): hele boksen under kartet på nettbrett liggende og PC uten reserven, stripa på nettbrett stående (valgt i økta), skuffen i plotteren under stripa, kildelinja ved siden av dagbokfanen, telefonknappen skjult bak den åpne telefonen, hele ordet på dagbokfanen i liggende telefon. Ses på Jonas' nettbrett med 3D: om boksen i liggende som vokser og krymper med innholdet (før: fast høyde med tomt glass) er roligere eller uroligere å se på under fisket; om stripa i stående nettbrett er nok, eller om hele boksen bør stå der (krever `ui/04-panels-instruments.js`, `HUDMQ`). Patchnotes for U2-8 tas i U2-9.
 - **UI 2, U2-7 (skuffen og sidene) bygd og rullet ut 08.11.2026 i 869507fb** (Jonas' økt, grenen `ccr-b4ccfe0e-t6qjnp`; `docs/systemer/ui-og-telefon.md`, «UI 2, U2-7»): ett ark for alle sidene i stående med stripa over, Mannskap med én hovedknapp per person og den andre bak ⋯. Antatt: hvilken post som er hovedknappen (om bord styrmann, ellers skipper) er valgt i økta; minikartet er borte mens skuffen er åpen. Ikke sett over 3D-bildet (ingen GPU). Neste i UI 2: U2-8 Nettbrett og PC arver.

diff --git a/docs/systemer/priser-og-salg.md b/docs/systemer/priser-og-salg.md
@@ -38,7 +38,7 @@
   - **«Ta unna fangsten før du går fra feltet»** (på som standard): alene blir du liggende til karet er tomt.
   - **I 3D:** Bløggekar og sløyebenk står på etterdekket. Den som jobber, står ved benken og sløyer, og sloet går over babord ripe mens måkene stuper etter det. Alene går skipperen fra rattet.
   - **Større fartøy** med fabrikk om bord kommer senere.
-- **Sluttseddelen** viser art, størrelse, kvalitet, kilo, kilopris, lever og rogn, inndragning, ferskfiskordningen, bestillinger og fangstfelt. Under tabellen står turens linje (Ø8b S2, 08.11.2026): hva turen ga i timen, hva fisken sto til, og hva sjøen og vinden, kulda, slitt pilk, nedfisket felt og haillen tok eller ga; trekkene mot vanlige trekk med samme ståtid. Den samme linja står i Drift-loggen. Hvordan den regnes: 5.3f i `fiskerimodellen.md`.
+- **Sluttseddelen** viser art, størrelse, kvalitet, kilo, kilopris, lever og rogn, inndragning, ferskfiskordningen, bestillinger og fangstfelt. Under tabellen står turens linje (Ø8b S2, 08.11.2026, ordlyden 09.11.2026): hva turen ga i timen, og med noen få ord, uten tall, hva som gjorde den god eller dårlig (sjøen og vinden, kulda, et hardt fisket felt, slitt pilk, haillen); trekkene bedre, omtrent som eller dårligere enn vanlig. Den samme linja står i Drift-loggen. Hvordan den regnes: 5.3f i `fiskerimodellen.md`.
   - Hver linje står i hele kroner og kilo, og totalen er summen av linjene (A7). Linjene står med full verdi, og det som inndras, står som egne trekk: torsk over kvote eller bifangstgrensen, og død kongekrabbe (0 kr). Gamle sedler kan ha krabbe under minstemålet og trekket for rognkrabbe fra taskekrabbens tid. Tillegg for bestillinger og innloggingsbonusen har egne linjer.
   - Under totalen kommer trekkene i oppgjøret, så «Lott til mannskapet» og «Til kassa». Kassa får nøyaktig total minus trekk og lott. Gebyret for småkrabbe står som en merknad under på gamle sedler. Kongekrabben har ikke noe slikt gebyr.
   - **Trekkene** (E2 av økonomiplanen, 04.10.2026, `TREKK` og `trekkOf` i `03-simulation.js`), som Råfisklaget trekker dem:
